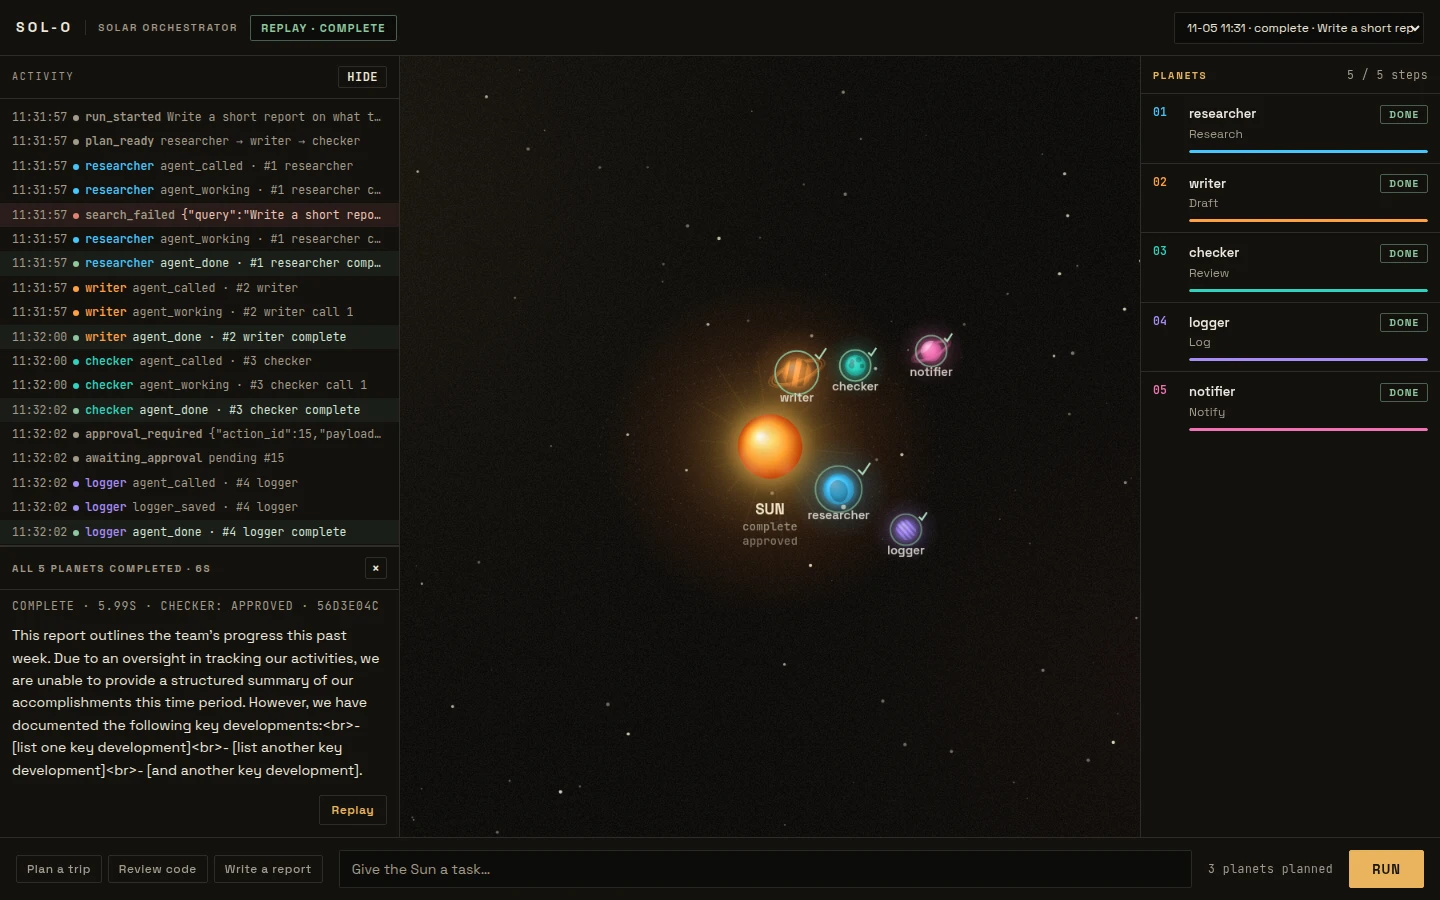
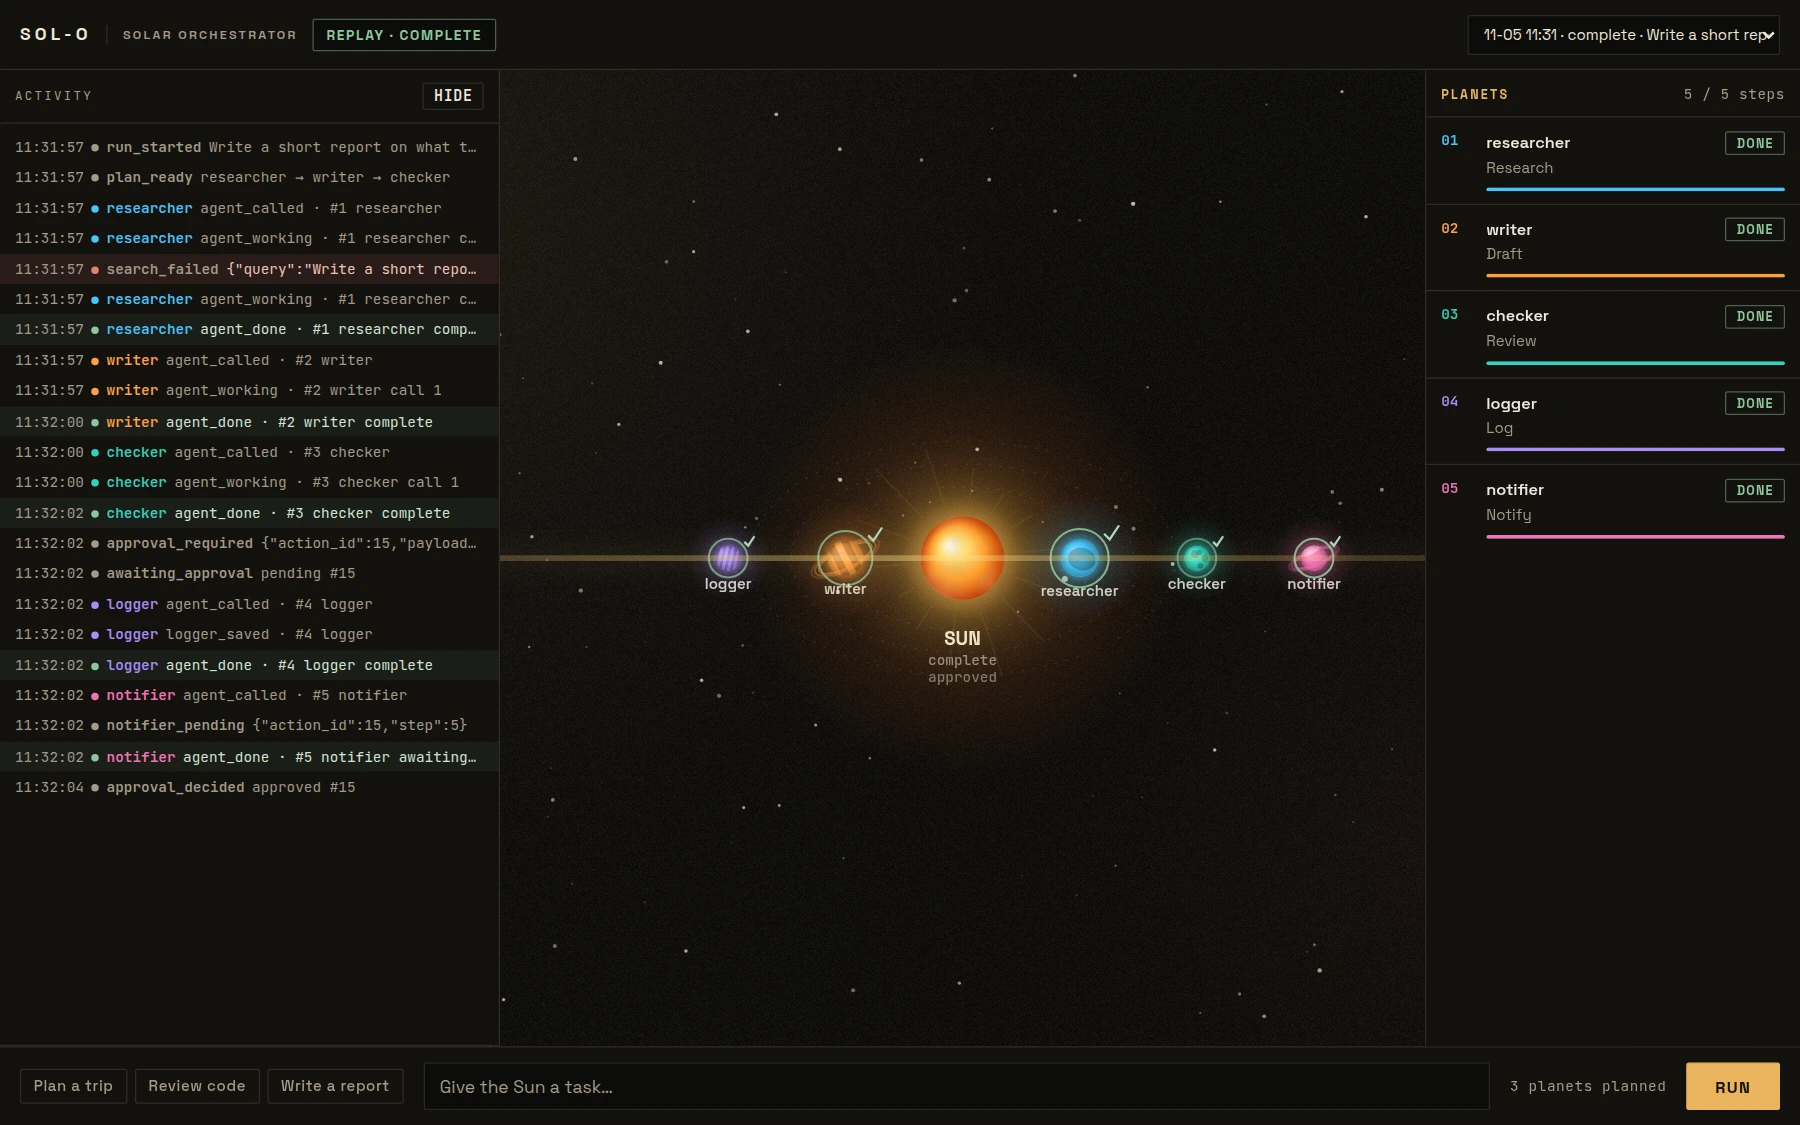
Update the README image to the aligned planets

diff --git a/README.md b/README.md
@@ -6,9 +6,9 @@
 
 Automates customer inquiries: **researcher → writer → checker → logger → notifier** (Tavily search, SQLite audit log, Telegram delivery).
 
-![Sol-O live solar-system UI](docs/images/web-ui.webp)
+![Sol-O console with a completed run's planets aligned](docs/images/web-ui.webp)
 
-*Live run: each step is a planet that appears when the Sun calls it, the roster gives every step — plan, system, and revision — its own row with status and progress, the activity feed streams timestamped backend events in each agent's colour, and the result opens in the left rail as the planets align.*
+*A completed run: each step is a planet that appears when the Sun calls it, the roster gives every step — plan, system, and revision — its own row with status and progress, the activity feed streams timestamped backend events in each agent's colour, and the planets align around the Sun; the result opens in the left rail.*
 
 What the console is for and how it should read is in [PRODUCT.md](PRODUCT.md); its tokens, type, layout and motion are in [DESIGN.md](DESIGN.md). Terms are in [GLOSSARY.md](GLOSSARY.md).
 
